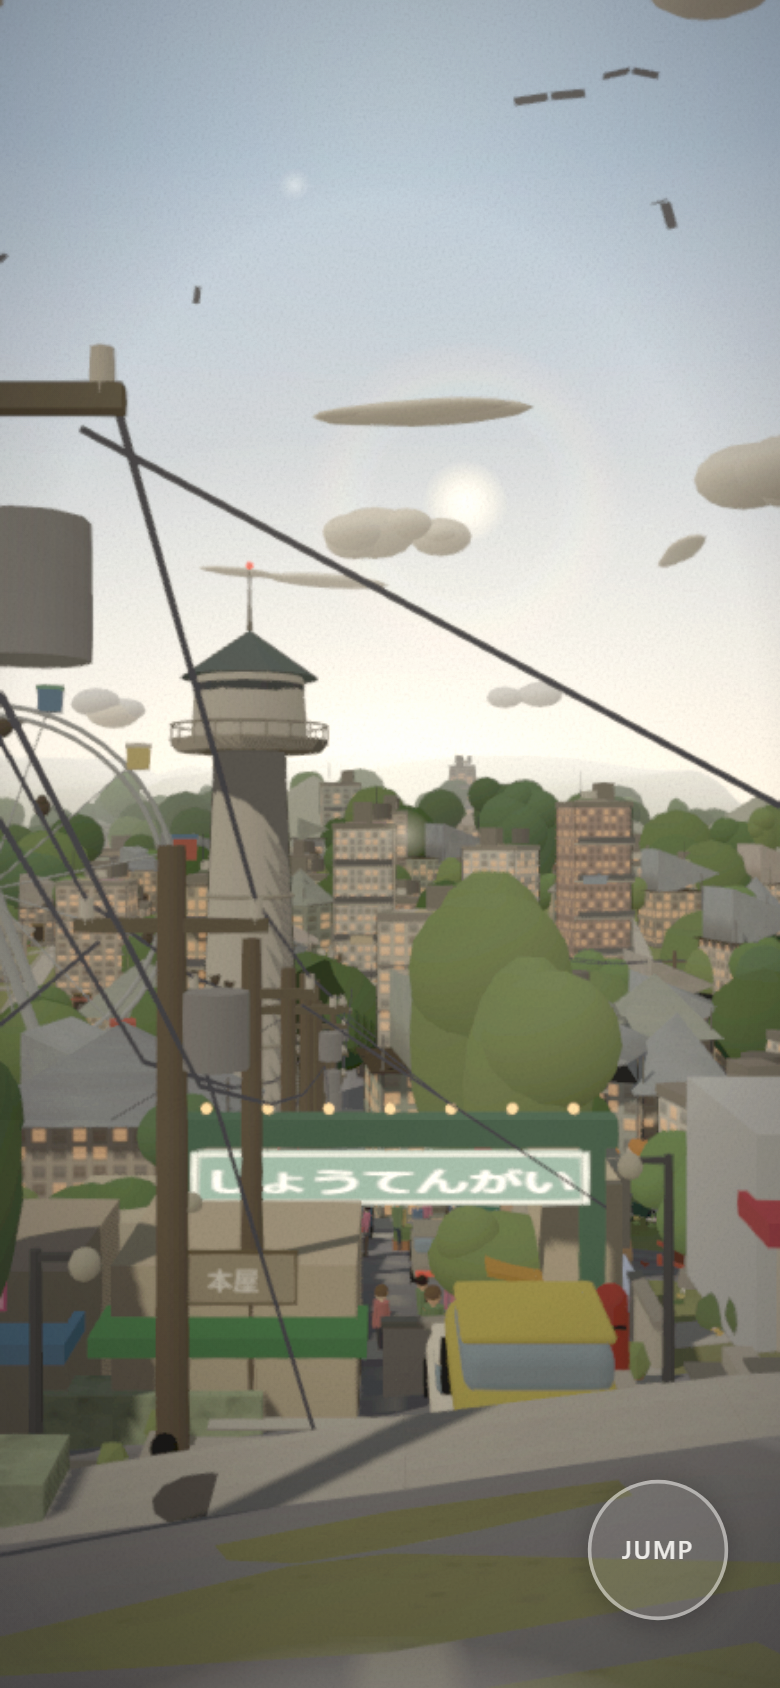
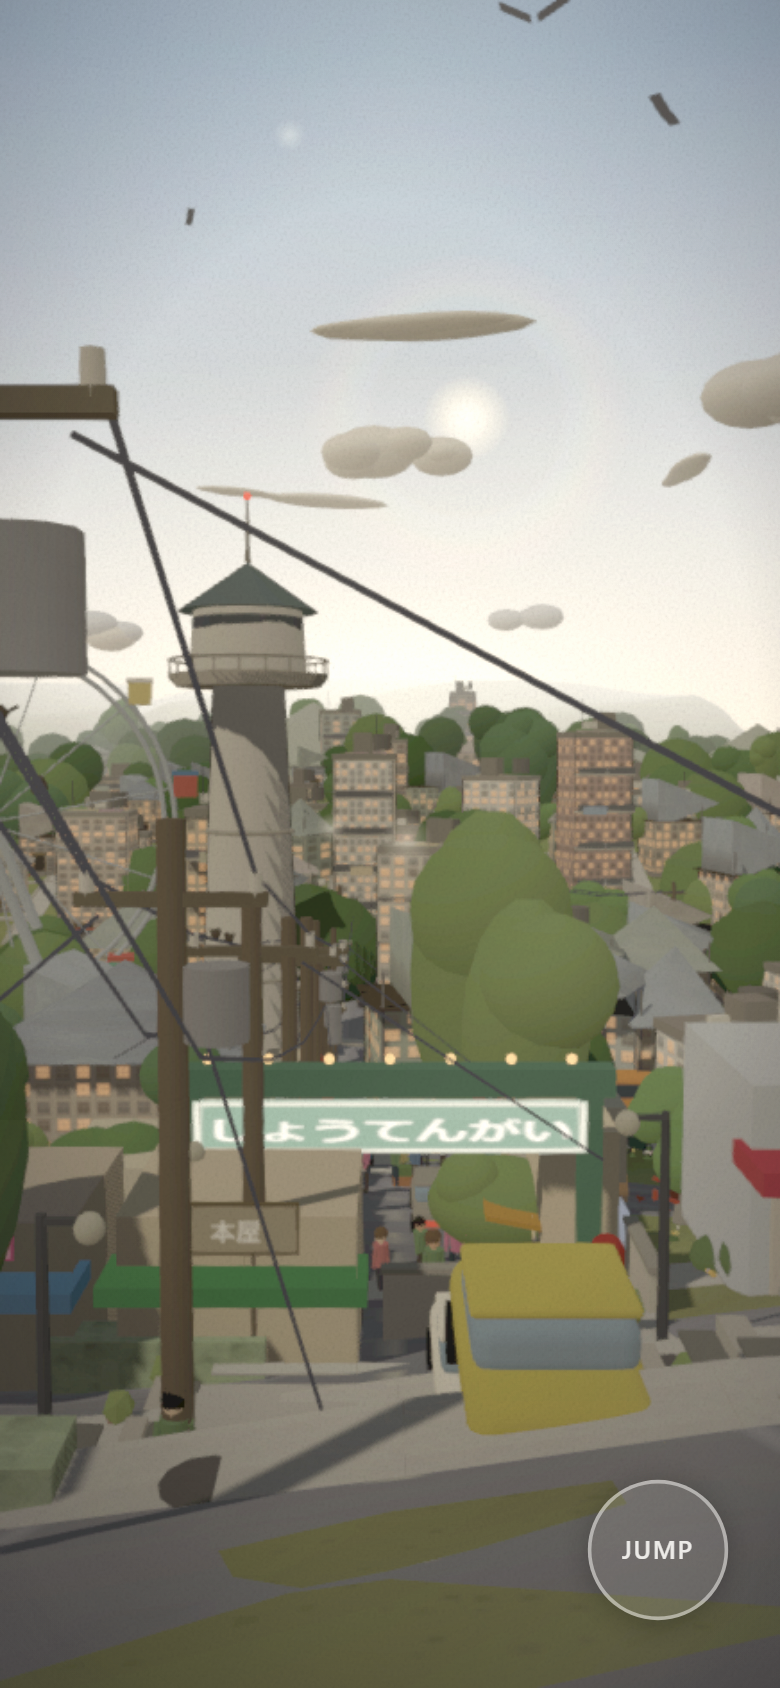
着地の向きを街並み(中心)へバイアス（景色の深い方を正面に）
openYawが「最も抜ける方向」だけ選ぶため、空き地/水面/壁を正面にしがちだった。
抜けの距離＋街並み(中心/ランドマーク)へ向く度合いの合算で選ぶように変更。
着地が街路・商店街・霞む街の深い眺めを正面に取りやすくなる(grnd-hillで確認)。
clearance優先は維持(中心方向が塞がっていれば抜ける方を選ぶ)。
※公園の縁など狭隘地点は近接物が残る→task #178で継続。

Claude-Session: https://claude.ai/code/session_01WPRFVYcNBQAaAmFx2XuLm7

diff --git a/src/engine/town3dViewer.js b/src/engine/town3dViewer.js
@@ -6277,15 +6277,21 @@ export async function mountTown3d(parent, opts = {}) {
     }
     return best || [x, z] // どこも狭ければ、せめて最も開けた所へ
   }
-  // 着地時に最も視界の抜ける向き（街路や建物の隙間の奥）を選ぶ＝壁や木立を正面にしない。
+  // 着地時の向き：最も視界の抜ける方向を基本に、街並み(中心)の方へ顔を向ける＝壁/空き地/水面でなく
+  // 景色の深い方（街路・ランドマーク）を望む。抜けの距離＋中心へ向く度合いの合算で選ぶ。
   active.openYaw = (x, z) => {
-    let best = 0, bestD = -1
+    const centers = [{ x: 0, z: -24 }, DOWNTOWN, STATION, PARK, { x: EDO.x, z: EDO.z }, { x: SENGOKU.x, z: SENGOKU.z }, { x: TAISHO.x, z: TAISHO.z }]
+    let ic = centers[0], icd = 1e9
+    for (const c of centers) { const d = (c.x - x) ** 2 + (c.z - z) ** 2; if (d > 100 && d < icd) { icd = d; ic = c } } // 自分から少し離れた最寄りの中心
+    const toCenter = Math.atan2(ic.x - x, -(ic.z - z))
+    let best = toCenter, bestScore = -1
     for (let a = 0; a < 16; a++) {
-      const yaw = a / 16 * 6.2832
-      const hx = Math.sin(yaw), hz = -Math.cos(yaw)
+      const yaw = a / 16 * 6.2832, hx = Math.sin(yaw), hz = -Math.cos(yaw)
       let d = 1.0
       for (; d < 34; d += 1.2) { if (blockedAt(x + hx * d, z + hz * d)) break }
-      if (d > bestD) { bestD = d; best = yaw }
+      let dd = yaw - toCenter; dd = Math.atan2(Math.sin(dd), Math.cos(dd))
+      const score = d + (1 - Math.abs(dd) / Math.PI) * 9 // 抜けの距離(最大34)＋中心へ向く度合い(最大+9)＝景色の深い街並みを正面に
+      if (score > bestScore) { bestScore = score; best = yaw }
     }
     return best
   }